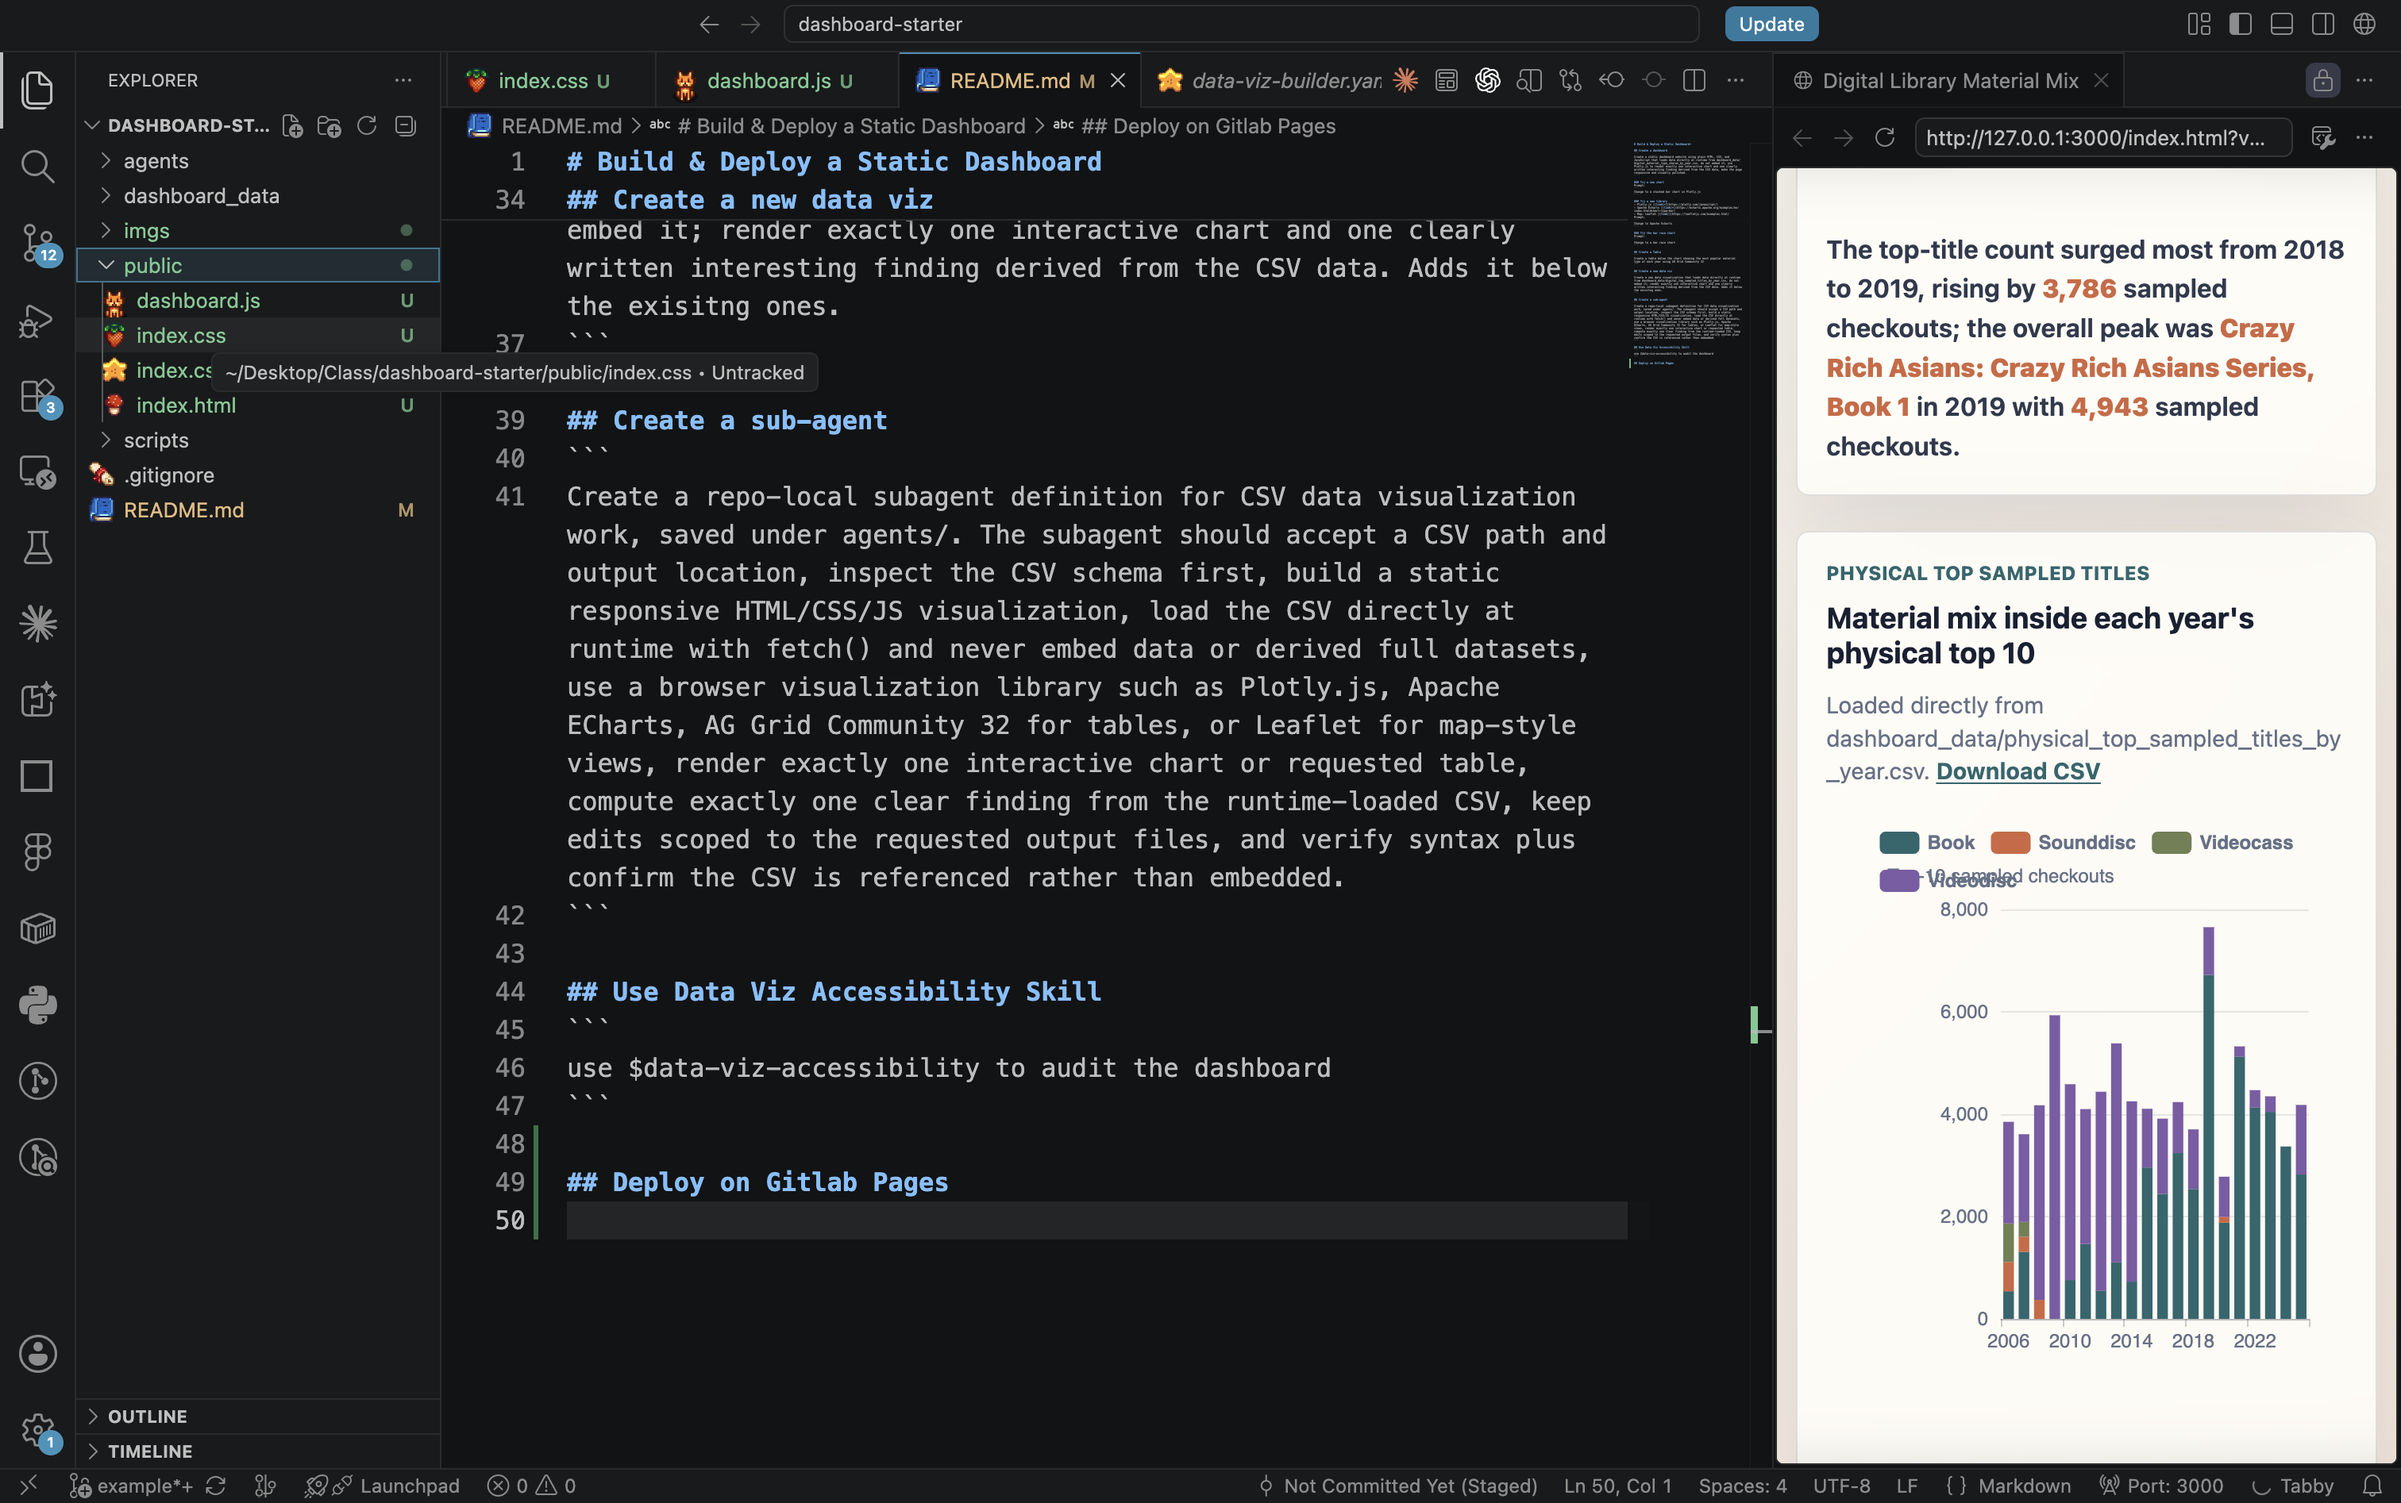
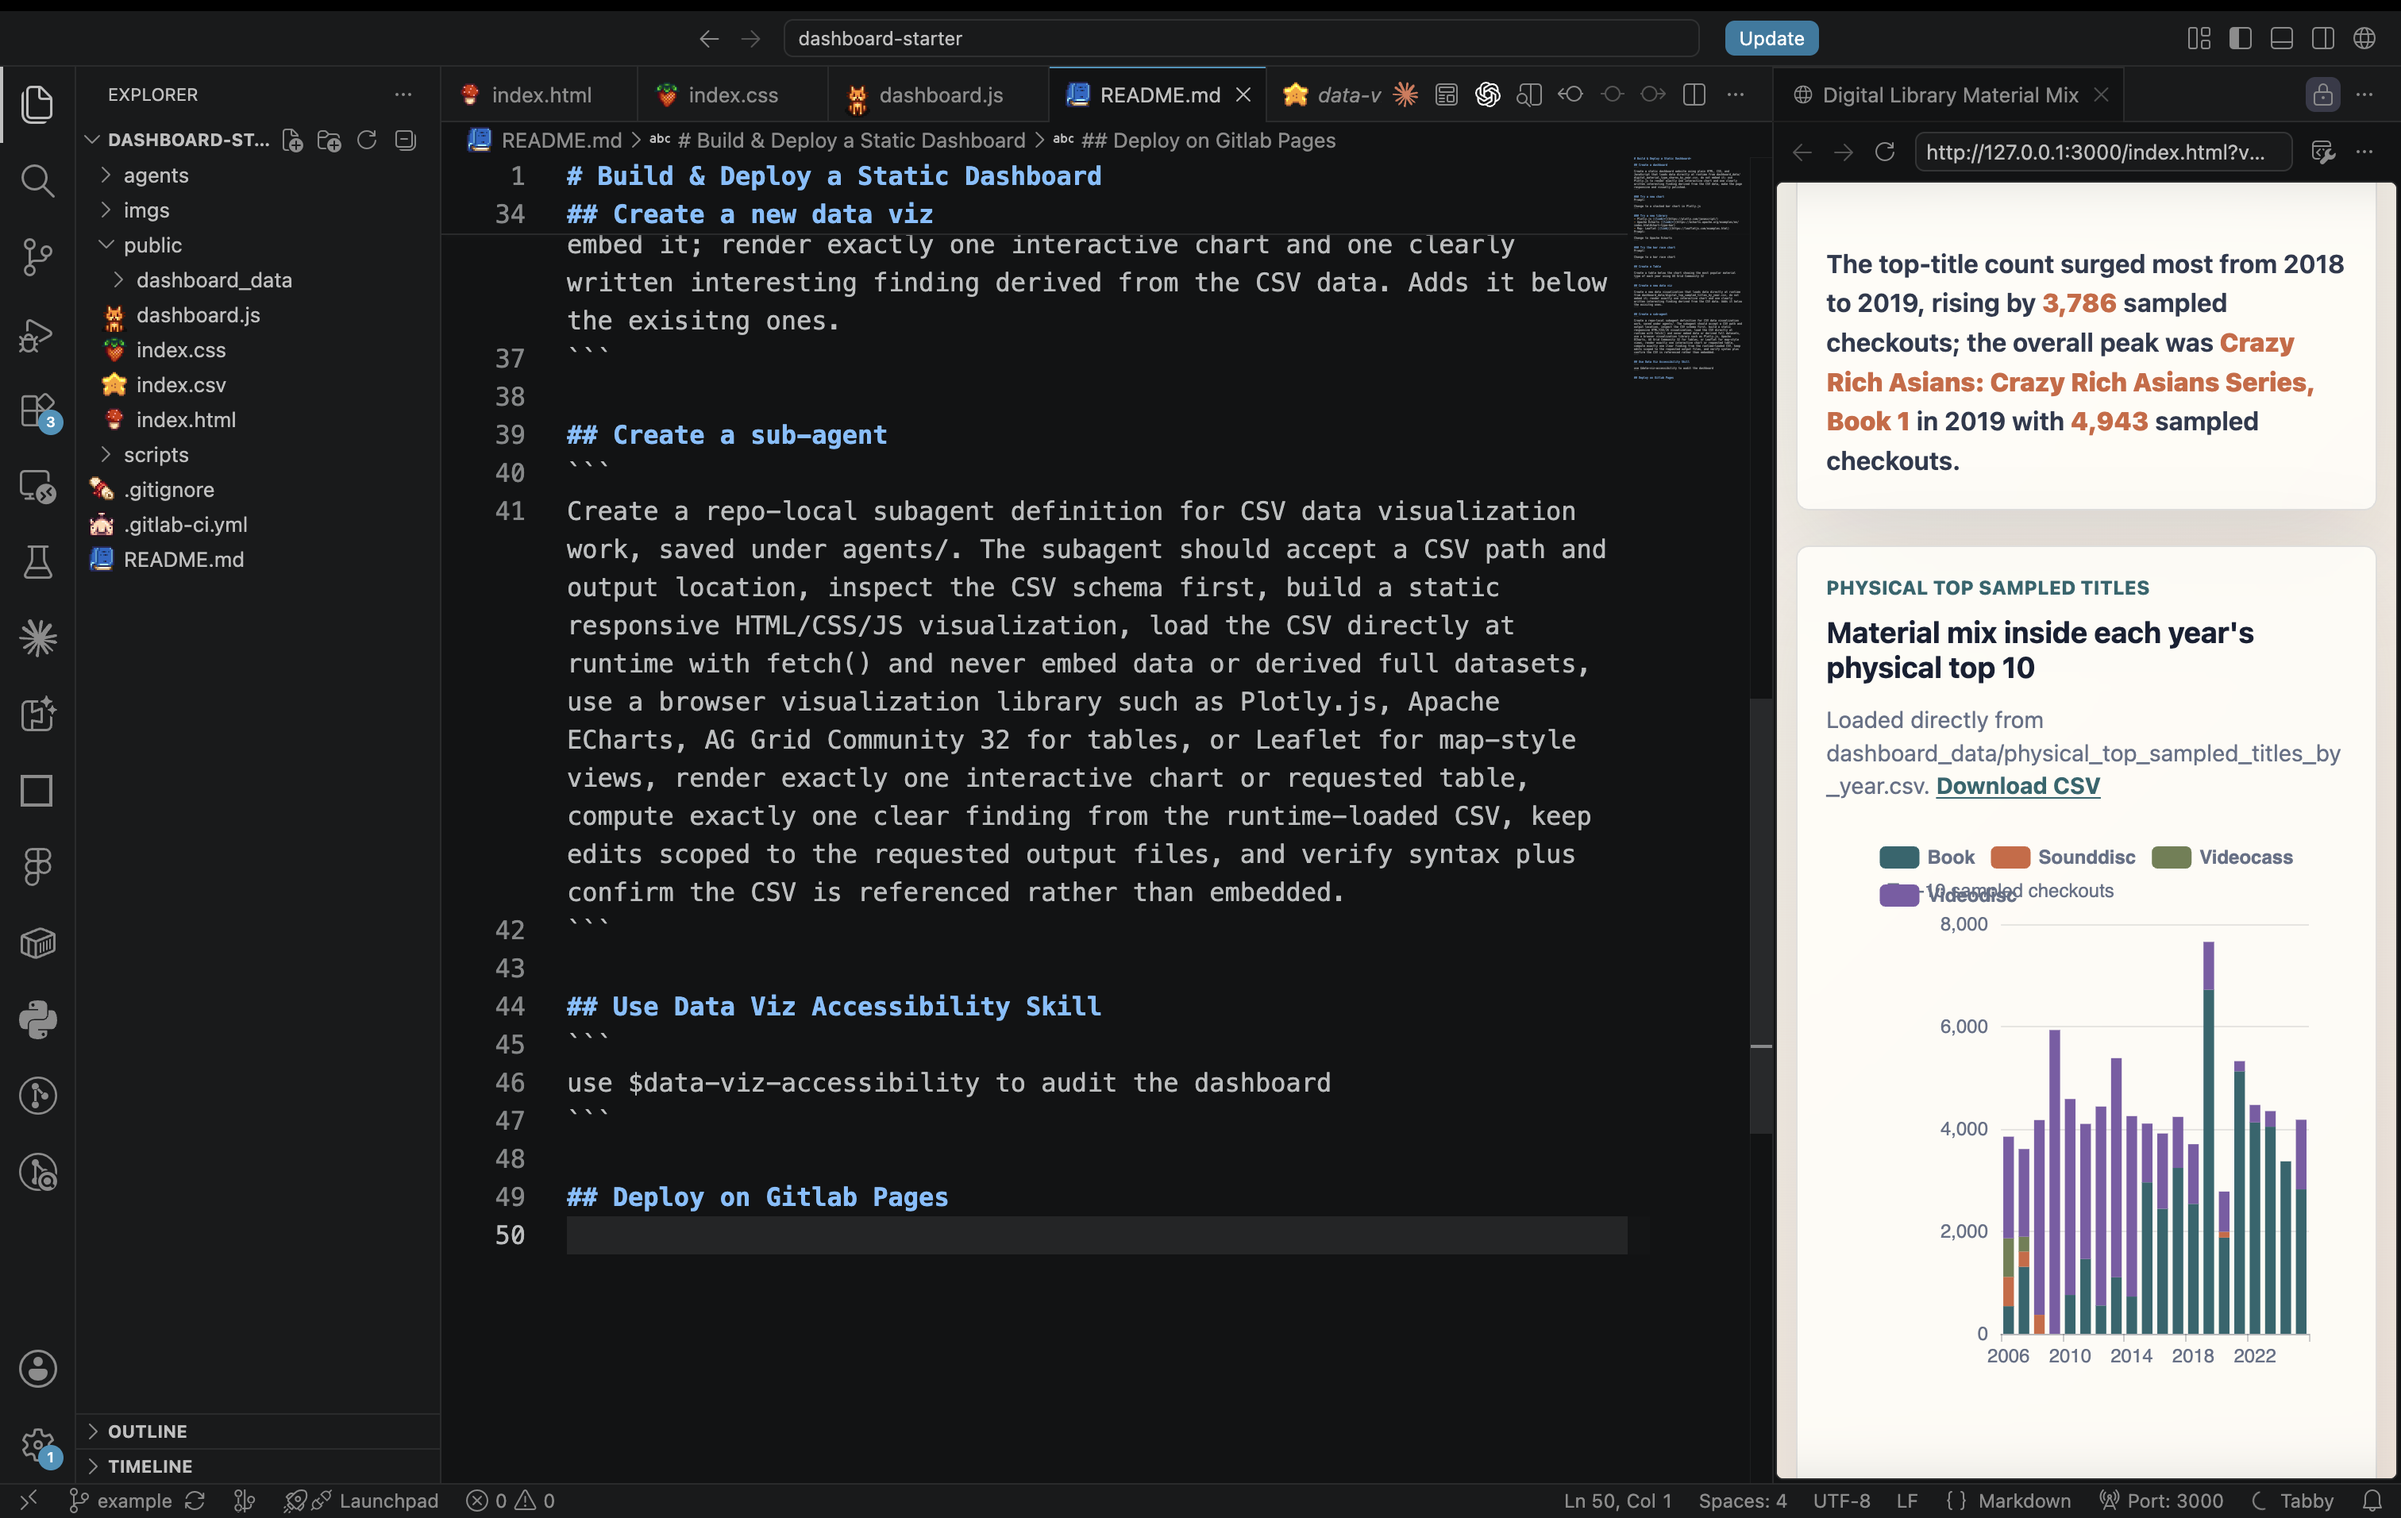
add to readme steps to gitlab pages

diff --git a/README.md b/README.md
@@ -47,3 +47,43 @@ use $data-viz-accessibility to audit the dashboard
 ```
 
 ## Deploy on Gitlab Pages
+1. Move index.html, index.css, dashboard_data/ into a public/ folder
+![](./imgs/0-move-into-public.png)
+
+2. Create a new repo, push up your changes, visit Settings -> General -> Visibility
+![](./imgs/1-go-to-setting.png)
+
+3. Make sure the Gitlab Pages setting is on
+![](./imgs/2-enable-pages.png)
+
+4. Go to Deploy -> Pages, create a runner. Copy and paste the following setting
+```
+image: alpine:latest
+
+pages:
+  stage: deploy
+  script:
+    - echo "Deploying static assets..."
+  artifacts:
+    paths:
+      - public
+  rules:
+    - if: '$CI_COMMIT_BRANCH == "main"'
+
+```
+![](./imgs/3-edit-yml.png)
+
+5. Press commit. This step will generate a `.gitlab-ci.yml` file.
+![](./imgs/4-commit-yml.png)
+
+6. Check pipeline
+![](./imgs/5-created-pipeline.png)
+
+7. View the pipeline and see it runs
+![](./imgs/6-see-pipeline.png)
+
+8. When the pipeline succeeds, you'll be able to visit a link
+![](./imgs/7-view-pages.png)
+
+9. See the dashboard deployed!
+![](./imgs/8-see-page.png)
